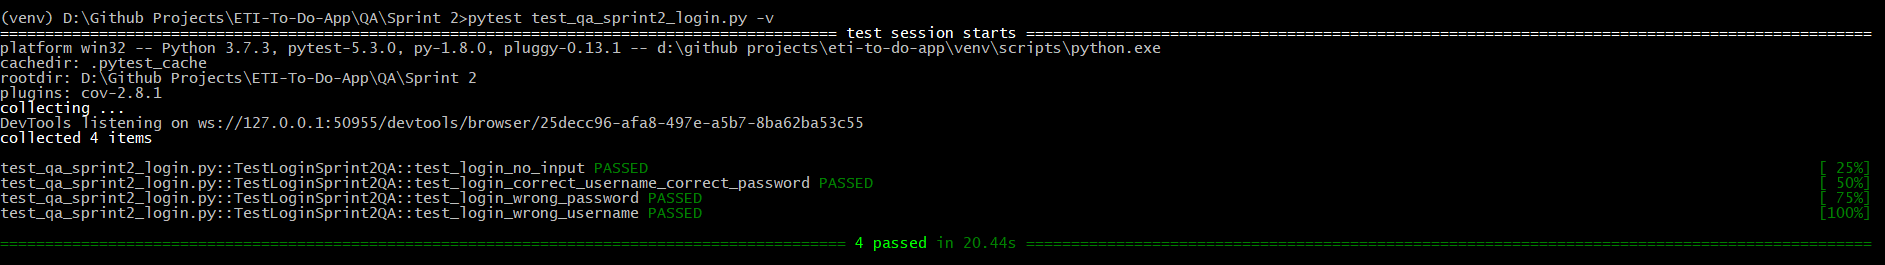
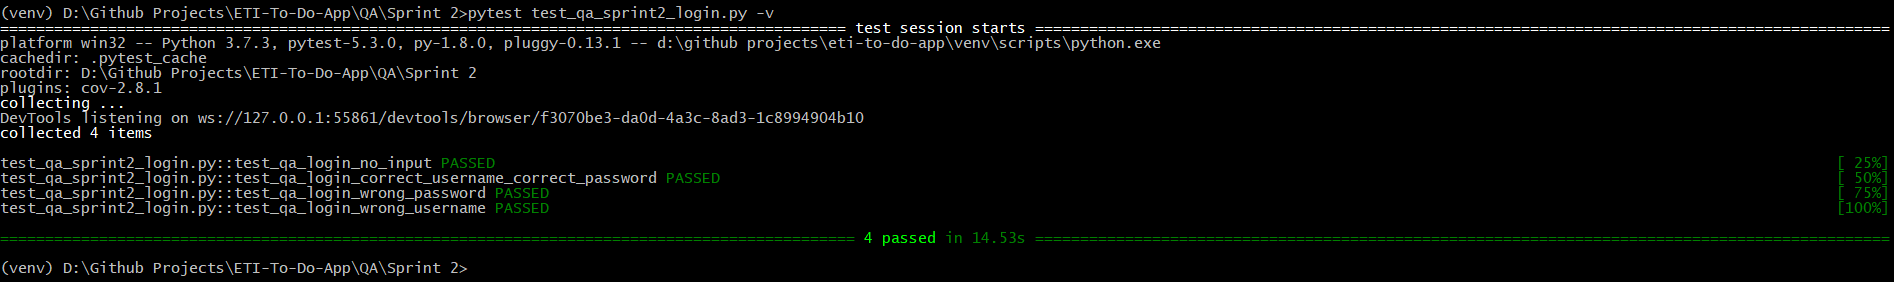
Done QA Test Case Automation for Login, Page Authentication and To-Do History

Changed region(s): [[0.0, 0.0302, 1.0, 0.8755], [0.0, 0.9057, 1.0, 0.9962]]

diff --git a/To_do_page/templates/history_page.html b/To_do_page/templates/history_page.html
@@ -45,9 +45,7 @@
 	  {% endif %}
 	</div>
 	<div class="col-sm-4">
-		<p id="pagination-count">
-			Showing {{ all_items.start_index }} to {{ all_items.end_index }} of {{ all_items.paginator.count }} items
-		</p>
+		<p id="pagination-count">Showing {{ all_items.start_index }} to {{ all_items.end_index }} of {{ all_items.paginator.count }} items</p>
 	</div>
 </div>
 

diff --git a/QA/Sprint 2/test_qa_sprint2_login.py b/QA/Sprint 2/test_qa_sprint2_login.py
@@ -3,84 +3,87 @@ from selenium import webdriver
 from selenium.webdriver.common.keys import Keys
 import time
 
-class TestLoginSprint2QA:
+login_url = "http://127.0.0.1:8000/accounts/login/"
+
+def test_qa_login_no_input():
     driver = webdriver.Chrome()
+    driver.get(login_url)
+    username_element = driver.find_element_by_id("id_username")
+    password_element = driver.find_element_by_id("id_password")
+    login_button_element = driver.find_element_by_xpath("/html/body/div/main/form/button")
+    driver.execute_script("arguments[0].removeAttribute('required')", username_element)
+    driver.execute_script("arguments[0].removeAttribute('required')", password_element)
 
-    def test_login_no_input(self):
-        self.driver.get("http://127.0.0.1:8000/accounts/login/")
-        username_element = self.driver.find_element_by_id("id_username")
-        password_element = self.driver.find_element_by_id("id_password")
-        login_button_element = self.driver.find_element_by_xpath("/html/body/div/main/form/button")
-        self.driver.execute_script("arguments[0].removeAttribute('required')", username_element)
-        self.driver.execute_script("arguments[0].removeAttribute('required')", password_element)
+    username_element.clear()
+    password_element.clear()
 
-        username_element.clear()
-        password_element.clear()
+    login_button_element.click()
 
-        login_button_element.click()
+    invalid_feedback_elements = driver.find_elements_by_class_name('invalid-feedback')
 
-        invalid_feedback_elements = self.driver.find_elements_by_class_name('invalid-feedback')
+    assert (invalid_feedback_elements[0].text == "This field is required.") and (invalid_feedback_elements[0].text == invalid_feedback_elements[1].text)
 
-        assert (invalid_feedback_elements[0].text == "This field is required.") and (invalid_feedback_elements[0].text == invalid_feedback_elements[1].text)
+def test_qa_login_correct_username_correct_password():
+    driver = webdriver.Chrome()
+    driver.get(login_url)
+    username_element = driver.find_element_by_id("id_username")
+    password_element = driver.find_element_by_id("id_password")
+    login_button_element = driver.find_element_by_xpath("/html/body/div/main/form/button")
+    
+    username_element.clear()
+    password_element.clear()
 
-    def test_login_correct_username_correct_password(self):
-        self.driver.get("http://127.0.0.1:8000/accounts/login/")
-        username_element = self.driver.find_element_by_id("id_username")
-        password_element = self.driver.find_element_by_id("id_password")
-        login_button_element = self.driver.find_element_by_xpath("/html/body/div/main/form/button")
-        
-        username_element.clear()
-        password_element.clear()
+    username_element.send_keys("marcus@abc.com")
+    password_element.send_keys("bluemonday")
 
-        username_element.send_keys("marcus@abc.com")
-        password_element.send_keys("bluemonday")
+    login_button_element.click()
 
-        login_button_element.click()
+    time.sleep(2)
 
-        time.sleep(2)
+    welcome_user_element = driver.find_element_by_xpath('//*[@id="navbarNav"]/ul[2]/li[1]/a')
+    
+    assert welcome_user_element.text == "Welcome, marcus@abc.com"
 
-        welcome_user_element = self.driver.find_element_by_xpath('//*[@id="navbarNav"]/ul[2]/li[1]/a')
-        
-        assert welcome_user_element.text == "Welcome, marcus@abc.com"
+def test_qa_login_wrong_password():
+    driver = webdriver.Chrome()
+    driver.get(login_url)
+    username_element = driver.find_element_by_id("id_username")
+    password_element = driver.find_element_by_id("id_password")
+    login_button_element = driver.find_element_by_xpath("/html/body/div/main/form/button")
+    
+    username_element.clear()
+    password_element.clear()
 
-    def test_login_wrong_password(self):
-        self.driver.get("http://127.0.0.1:8000/accounts/login/")
-        username_element = self.driver.find_element_by_id("id_username")
-        password_element = self.driver.find_element_by_id("id_password")
-        login_button_element = self.driver.find_element_by_xpath("/html/body/div/main/form/button")
-        
-        username_element.clear()
-        password_element.clear()
+    username_element.send_keys("marcus@abc.com")
+    password_element.send_keys("redmonday")
 
-        username_element.send_keys("marcus@abc.com")
-        password_element.send_keys("redmonday")
+    login_button_element.click()
 
-        login_button_element.click()
+    time.sleep(2)
 
-        time.sleep(2)
+    error_message_element = driver.find_element_by_xpath('/html/body/div/main/form/div[1]')
+    expected_error_message = "Please enter a correct username and password. Note that both fields may be case-sensitive."
+    
+    assert expected_error_message in error_message_element.text
 
-        error_message_element = self.driver.find_element_by_xpath('/html/body/div/main/form/div[1]')
-        expected_error_message = "Please enter a correct username and password. Note that both fields may be case-sensitive."
-        
-        assert expected_error_message in error_message_element.text
+def test_qa_login_wrong_username():
+    driver = webdriver.Chrome()
+    driver.get(login_url)
+    username_element = driver.find_element_by_id("id_username")
+    password_element = driver.find_element_by_id("id_password")
+    login_button_element = driver.find_element_by_xpath("/html/body/div/main/form/button")
+    
+    username_element.clear()
+    password_element.clear()
 
-    def test_login_wrong_username(self):
-        self.driver.get("http://127.0.0.1:8000/accounts/login/")
-        username_element = self.driver.find_element_by_id("id_username")
-        password_element = self.driver.find_element_by_id("id_password")
-        login_button_element = self.driver.find_element_by_xpath("/html/body/div/main/form/button")
-        
-        username_element.clear()
-        password_element.clear()
+    username_element.send_keys("mark@abc.com")
+    password_element.send_keys("bluemonday")
 
-        username_element.send_keys("mark@abc.com")
-        password_element.send_keys("bluemonday")
+    login_button_element.click()
 
-        login_button_element.click()
+    time.sleep(2)
 
-        time.sleep(2)
+    error_message_element = driver.find_element_by_xpath('/html/body/div/main/form/div[1]')
+    expected_error_message = "Please enter a correct username and password. Note that both fields may be case-sensitive."
 
-        error_message_element = self.driver.find_element_by_xpath('/html/body/div/main/form/div[1]')
-        expected_error_message = "Please enter a correct username and password. Note that both fields may be case-sensitive."
-
-        assert expected_error_message in error_message_element.text
+    assert expected_error_message in error_message_element.text

diff --git a/QA/Sprint 2/test_qa_sprint2_todohistory.py b/QA/Sprint 2/test_qa_sprint2_todohistory.py
@@ -3,8 +3,40 @@ from selenium import webdriver
 from selenium.webdriver.common.keys import Keys
 import time
 
+driver = webdriver.Chrome()
+login_url = 'http://127.0.0.1:8000/accounts/login/'
+
 def test_qa_retrieve_todohistory():
     # This test case is to test if the To-Do History items
-    # are retrieved at the To-Do History Page
-    
-    return
+    # are retrieved as intended at the To-Do History Page. 
+    # Login into the To-Do application
+    driver.get(login_url)
+    username_element = driver.find_element_by_id("id_username")
+    password_element = driver.find_element_by_id("id_password")
+    login_button_element = driver.find_element_by_xpath("/html/body/div/main/form/button")
+    username_element.clear()
+    password_element.clear()
+    username_element.send_keys("marcus@abc.com")
+    password_element.send_keys("bluemonday")
+    login_button_element.click()
+    time.sleep(2)
+
+    # Click on the navigation bar link to To-Do History Page
+    to_do_history_nav_link_element = driver.find_element_by_xpath('//*[@id="navbarNav"]/ul[1]/li[2]/a')
+    to_do_history_nav_link_element.click()
+
+    # Compare the number of rows in the first page based on the pagination count.
+    # Example of pagination count: "Showing 1 to 5 of 12 items"
+    # Using split function: ["Showing", "1", "to", "5", "of", "12", "items"]
+    # The 5th index is the total number of items.
+    to_do_history_table_tbody_element = driver.find_element_by_xpath('//*[@id="to-do-history-table"]/tbody')
+    pagination_count_text = driver.find_element_by_id('pagination-count').text
+    pagination_count_text_list = pagination_count_text.split()
+
+    page_1_row_count = len(to_do_history_table_tbody_element.find_elements_by_tag_name('tr'))
+    total_number_of_todo_history_items = int(pagination_count_text_list[5])
+
+    if total_number_of_todo_history_items >= 5:
+        assert page_1_row_count == 5
+    else:
+        assert page_1_row_count == total_number_of_todo_history_items

diff --git a/QA/Sprint 2/test_qa_sprint2_page_authentication.py b/QA/Sprint 2/test_qa_sprint2_page_authentication.py
@@ -4,22 +4,28 @@ from selenium.webdriver.common.keys import Keys
 import time
 
 # All these are failing test cases
+driver = webdriver.Chrome()
+expected_message = "You are not logged in"
 
 def test_qa_todo_page_authentication():
     # This test case is to test if a user who has not logged in
     # can acess the To-Do Page.
+    driver.get('http://127.0.0.1:8000/To_do_page/')
+    not_logged_in_message_element = driver.find_element_by_xpath('/html/body/div/main/p')
+    assert not_logged_in_message_element.text == expected_message
 
-    return
 
 def test_qa_todohistory_page_authentication():
     # This test case is to test if a user who has not logged in
     # can acess the To-Do History Page.
+    driver.get('http://127.0.0.1:8000/historyItem/')
+    not_logged_in_message_element = driver.find_element_by_xpath('/html/body/div/main/p')
+    assert not_logged_in_message_element.text == expected_message
 
-
-    return
 
 def test_qa_contributions_page_authentication():
     # This test case is to test if a user who has not logged in
     # can acess the Contributions Page.
-
-    return
+    driver.get('http://127.0.0.1:8000/contribution/')
+    not_logged_in_message_element = driver.find_element_by_xpath('/html/body/div/main/p')
+    assert not_logged_in_message_element.text == expected_message

diff --git a/QA/Sprint 2/test_qa_sprint2_addtodo.py b/QA/Sprint 2/test_qa_sprint2_addtodo.py
@@ -3,9 +3,12 @@ from selenium import webdriver
 from selenium.webdriver.common.keys import Keys
 import time
 
+driver = webdriver.Chrome()
+login_url = "http://127.0.0.1:8000/accounts/login/"
+
 def test_qa_add_todo_item_no_item_name():
     # This code is different from Sprint 1's due to Requirements and UI Changes
-
+    
     return
 
 def test_qa_add_todo_item():
@@ -13,5 +16,6 @@ def test_qa_add_todo_item():
 
 
     # Check To-Do History Page for the add action
+
 
     return

diff --git a/QA/Sprint 2/test_qa_sprint2_deletetodo.py b/QA/Sprint 2/test_qa_sprint2_deletetodo.py
@@ -5,7 +5,8 @@ import time
 
 def test_qa_delete_to_do_item():
     # This code is different from Sprint 1's due to Requirements and UI Changes
-
+    driver = webdriver.Chrome()
+    driver.get("http://127.0.0.1:8000/accounts/login/")
 
     # Check To-Do History Page for the delete action
 

diff --git a/QA/Sprint 2/test_qa_sprint2_signup.py b/QA/Sprint 2/test_qa_sprint2_signup.py
@@ -3,6 +3,9 @@ from selenium import webdriver
 from selenium.webdriver.common.keys import Keys
 import time
 
+driver = webdriver.Chrome()
+sign_up_url = "http://127.0.0.1:8000/accounts/signup/"
+
 # User Sign Up with no input (Failing Test Case)
 def test_qa_signup_no_input():
     
